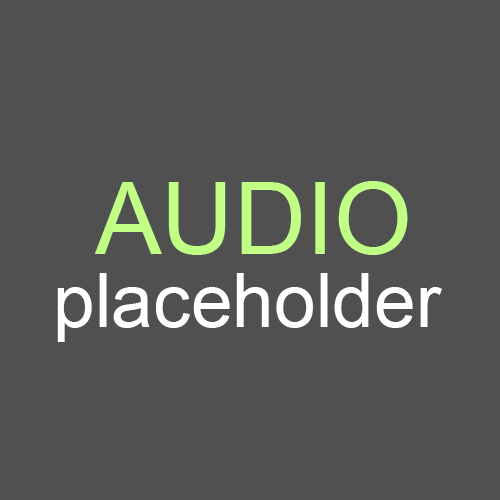
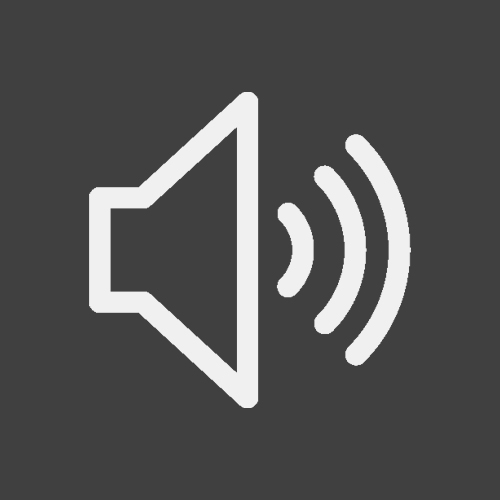
Added support for more audio file formats. Updated the UI look of the audio media item

Changed region(s): [[0.09, 0.18, 0.9, 0.84]]

diff --git a/stepstones/Views/MainWindow.xaml b/stepstones/Views/MainWindow.xaml
@@ -132,11 +132,22 @@
                                 <!-- Fallback layer -->
                                 <Border CornerRadius="10"
                                         Background="#404040">
-                                    <Image Source="/Resources/Icons/file.png"
-                                           Width="60"
+                                    <Image Width="60"
                                            Height="60"
                                            Stretch="Uniform"
                                            Opacity="0.5">
+                                        <Image.Style>
+                                            <Style TargetType="Image">
+                                                <Setter Property="Source" Value="/Resources/Icons/file.png"/>
+
+                                                <Style.Triggers>
+                                                    <DataTrigger Binding="{Binding IsAudio}"
+                                                                 Value="True">
+                                                        <Setter Property="Source" Value="/Resources/Icons/file_audio.png"/>
+                                                    </DataTrigger>
+                                                </Style.Triggers>
+                                            </Style>
+                                        </Image.Style>
                                     </Image>
                                 </Border>
                                 

diff --git a/stepstones/Services/Core/FileTypeIdentifierService.cs b/stepstones/Services/Core/FileTypeIdentifierService.cs
@@ -17,18 +17,14 @@ namespace stepstones.Services.Core
 
         public async Task<MediaType> IdentifyAsync(string filePath)
         {
+            // if GIF
             if (Path.GetExtension(filePath).Equals(".gif", StringComparison.OrdinalIgnoreCase))
             {
                 _logger.LogInformation("Identified '{File}' as GIF.", filePath);
                 return MediaType.Gif;
             }
 
-            if (Path.GetExtension(filePath).Equals(".mp3", StringComparison.OrdinalIgnoreCase))
-            {
-                _logger.LogInformation("Identified '{File}' as Audio.", filePath);
-                return MediaType.Audio;
-            }
-
+            // if IMAGE
             try
             {
                 var imageInfo = await Image.IdentifyAsync(filePath);
@@ -43,6 +39,7 @@ namespace stepstones.Services.Core
                 _logger.LogInformation("File '{File}' has not been identified as Image.", filePath);
             }
 
+            // if VIDEO or AUDIO
             try
             {
                 var mediaInfo = await FFProbe.AnalyseAsync(filePath);
@@ -51,12 +48,18 @@ namespace stepstones.Services.Core
                     _logger.LogInformation("Identified '{File}' as Video.", filePath);
                     return MediaType.Video;
                 }
+                if (mediaInfo.AudioStreams.Any())
+                {
+                    _logger.LogInformation("Identified '{File}' as Audio.", filePath);
+                    return MediaType.Audio;
+                }
             }
             catch (Exception)
             {
                 _logger.LogInformation("File '{Path}' has not been identified as Video.", filePath);
             }
 
+            // if UNKNOWN
             _logger.LogWarning("Could not identify '{File}' as a Image or Video.", filePath);
             return MediaType.Unknown;
         }

diff --git a/stepstones/Services/Data/DataMigrationService.cs b/stepstones/Services/Data/DataMigrationService.cs
@@ -80,13 +80,13 @@ namespace stepstones.Services.Data
             var itemsWithMissingThumbnails = items
                 .Where(item =>
                 {
+                    if (item.FileType == MediaType.Audio)
+                    {
+                        return false;
+                    }
                     if (string.IsNullOrWhiteSpace(item.ThumbnailPath))
                     {
                         return true;
-                    }
-                    if (item.ThumbnailPath.StartsWith("pack://"))
-                    {
-                        return false;
                     }
 
                     return !File.Exists(item.ThumbnailPath);

diff --git a/stepstones/Services/Core/MediaItemProcessorService.cs b/stepstones/Services/Core/MediaItemProcessorService.cs
@@ -49,10 +49,6 @@ namespace stepstones.Services.Core
                 {
                     thumbnailPath = await _thumbnailService.CreateThumbnailAsync(finalPath, mediaType);
                 }
-                else
-                {
-                    thumbnailPath = "pack://application:,,,/Resources/audio_placeholder.jpg";
-                }
 
                 // construct the MediaItem object
                 var newItem = new MediaItem
